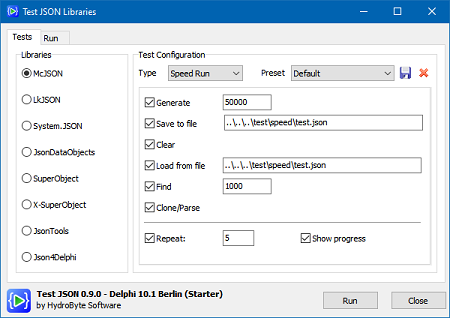
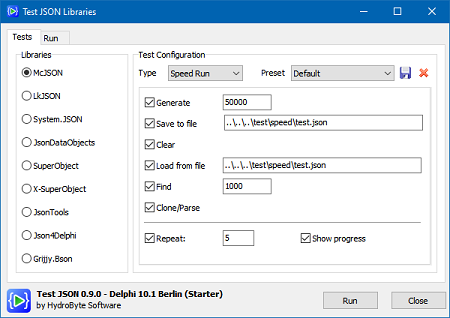
Validation results for Grijjy.Bson. Fix TLibGrijjyBson.Check.

diff --git a/README.md b/README.md
@@ -103,7 +103,7 @@ This validation test should be analyzed carefully. Some libraries have violation
 - `.\test\valid` files extracted from [MJPA/SimpleJSON](https://github.com/MJPA/SimpleJSON)
 - These are not valid JSON files because first line has a text as description.
 
-### Results with Delphi and C++Builder
+### Results with Delphi
 
 Library          | Expected to Fail but Passed                      | Expected to Pass but Failed   |
 :----------------|-------------------------------------------------:|------------------------------:|
@@ -115,6 +115,7 @@ Library          | Expected to Fail but Passed                      | Expected t
 `X-SuperObject`  |     fail(01, 06, 08, 15, 16, 17, 18, 19, 20, 21) |              pass(01, 04, 05) |
 `JsonTools`      |                             fail(01, 16, 20, 21) |                  pass(04, 05) |
 `Json4Delphi`    |                                                - |      pass(01, 03, 04, 05, 06) |
+`Grijjy.Bson`    |                                     fail(15, 20) |          pass(01, 02, 04, 05) |
 
 ### Results with C++Builder
 
